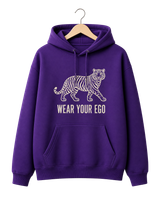
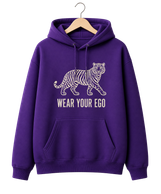
Hook the hoodies onto the rail instead of floating below it
Pulled the garment row up to overlap the rail by the rail's own
height (negative margin on .rack-items) so each hanger hook now
tucks under/behind the bar instead of leaving a gap underneath it,
and dropped the redundant top padding on .rack-item that was adding
to that gap. Also shaved the few leftover pixels of transparent
headroom off the top of each hoodie photo (front and side) so the
hook sits flush at the top of the image.

Claude-Session: https://claude.ai/code/session_01ByFMHKtb2Ee8sWWhmh3Wnq

diff --git a/styles.css b/styles.css
@@ -525,7 +525,7 @@ a { color: inherit; text-decoration: none; }
 .rack-items {
   position: relative;
   list-style: none;
-  margin: 0;
+  margin: -9px 0 0;
   padding: 0 4px;
   display: flex;
   align-items: flex-end;
@@ -558,11 +558,10 @@ a { color: inherit; text-decoration: none; }
   -webkit-appearance: none;
   background: none;
   border: none;
-  padding: 10px 6px 0;
+  padding: 0 6px 0;
   cursor: pointer;
   transition: flex-grow 0.4s cubic-bezier(.2,.8,.2,1);
 }
-li.rack-item-hover { flex-grow: 2.1; }
 .rack-items > li:hover,
 .rack-items > li:focus-within {
   flex-grow: 2.1;
